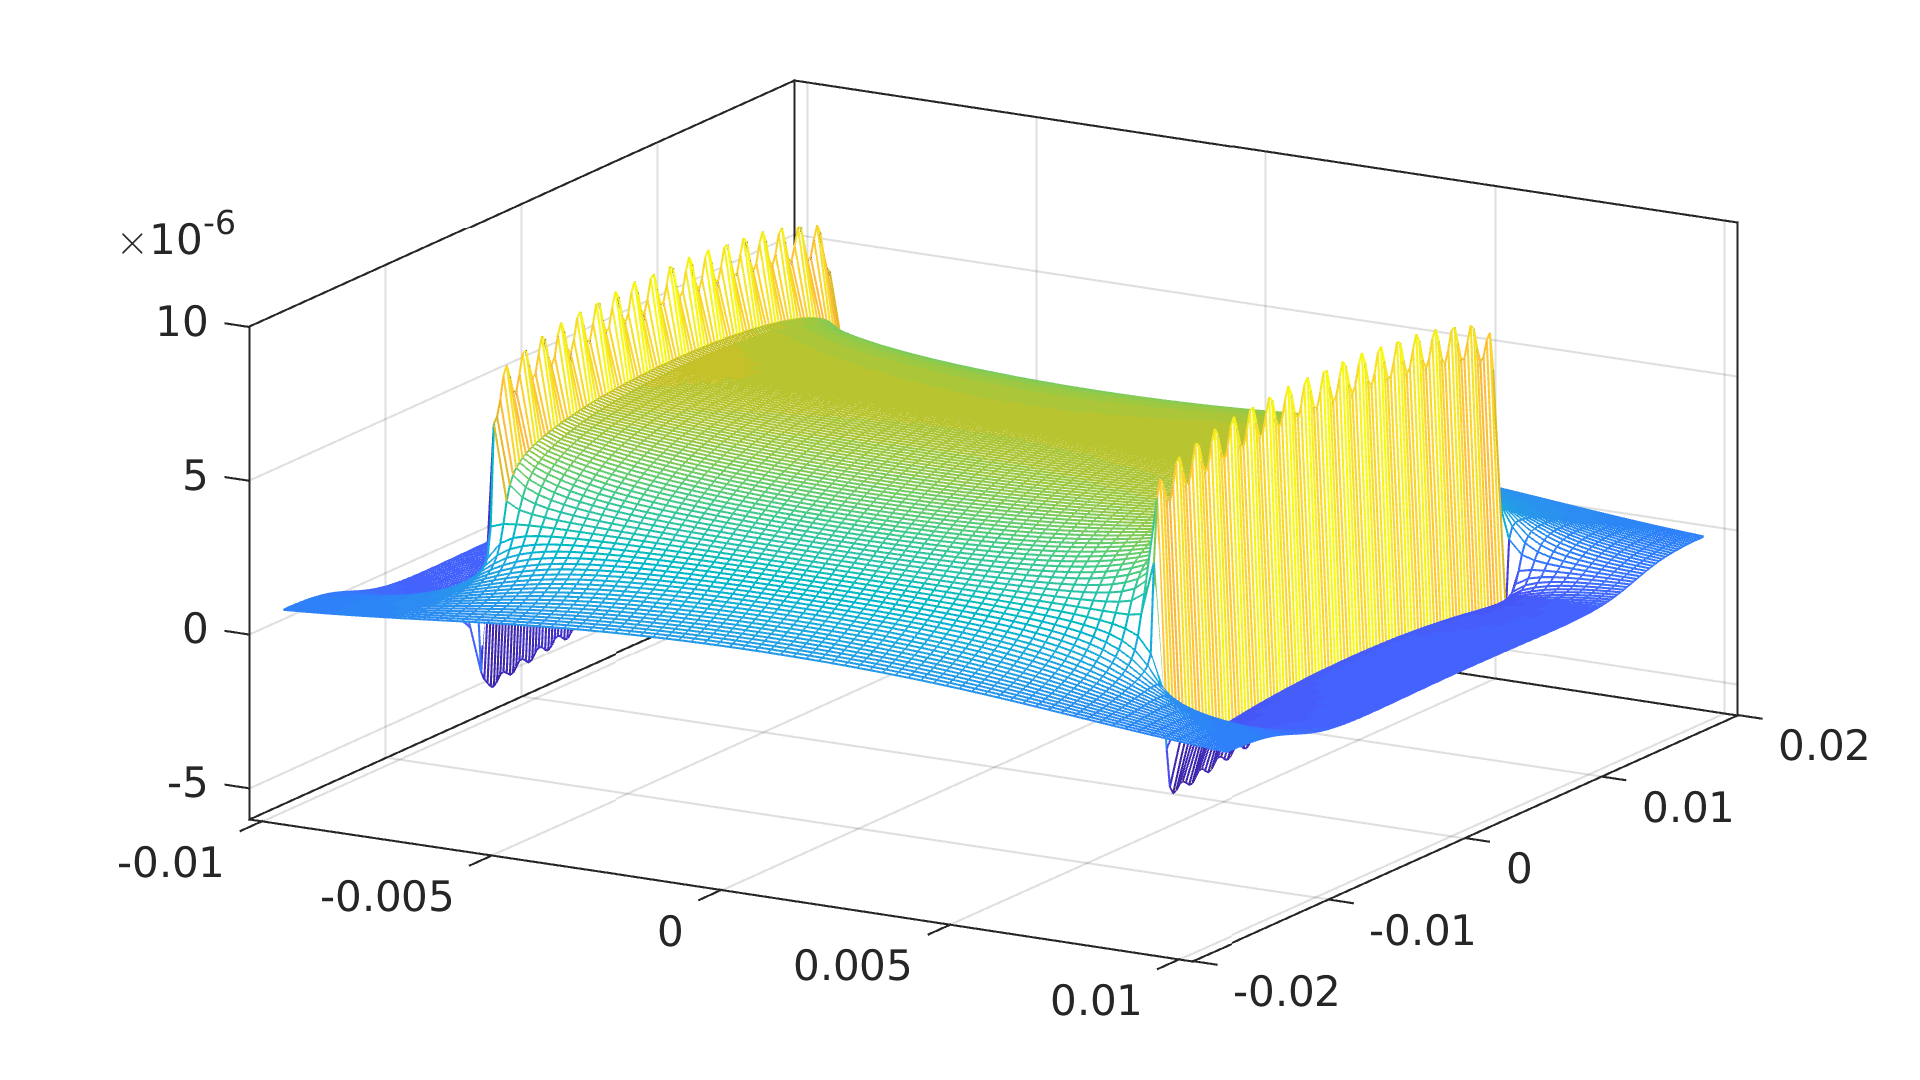
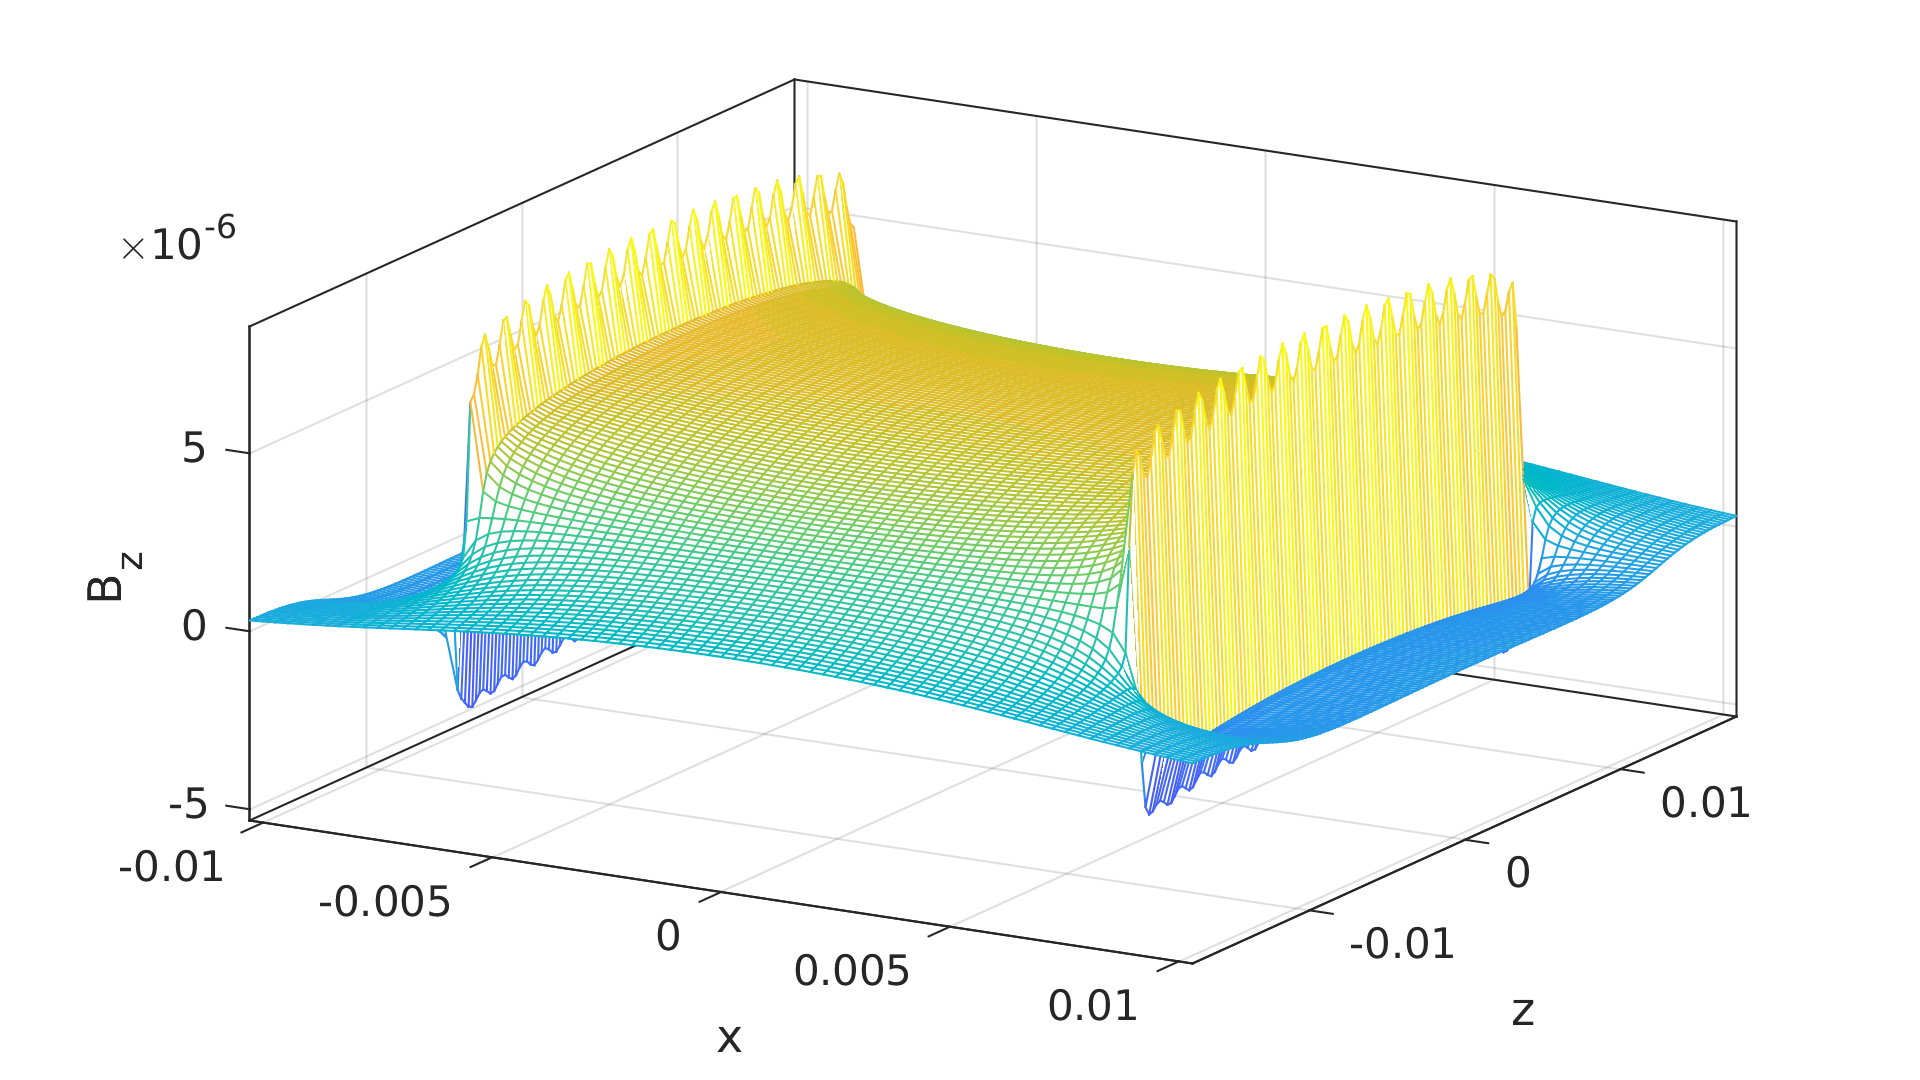
Plot the plane of test points horizontally

diff --git a/plotResults.m b/plotResults.m
@@ -10,15 +10,30 @@ Bx = importdata('Output/Bx.txt');
 By = importdata('Output/By.txt');
 Bz = importdata('Output/Bz.txt');
 
+% Mathematica uses "Indeterminate" where Matlab would use "NaN", so we replace
+% those:
+!sed -i 's/Indeterminate/NaN/g' Output/XZBzAnalytic.txt
+XZBzAnalytic = importdata('Output/XZBzAnalytic.txt');
+
+n = sqrt(size(XZBzAnalytic,1)/2);
+
+% X = reshape(XZBzAnalytic(:,1),2*n,n);
+% Z = reshape(XZBzAnalytic(:,2),2*n,n);
+BzAnalytic = reshape(XZBzAnalytic(:,3),2*n,n);
+
 whos
 
 setPlotSize(16,9,'centimeter')
 
 clf; hold on
-plot3(coilCoordinates(:,1),coilCoordinates(:,2),coilCoordinates(:,3))
+plot3(coilCoordinates(:,1),coilCoordinates(:,3),coilCoordinates(:,2))
+xlabel('x')
+ylabel('z')
+zlabel('y')
 xlim([min(min(X)) max(max(X))])
-ylim([min(min(X)) max(max(X))])
-zlim([min(coilCoordinates(:,3)) max(coilCoordinates(:,3))])
+ylim([min(min(Z)) max(max(Z))])
+% zlim([min(coilCoordinates(:,3)) max(coilCoordinates(:,3))])
+zlim([min(min(X)) max(max(X))])
 view(30,30)
 box on
 grid on
@@ -27,61 +42,101 @@ print(1,filename,'-dpng','-r300')
 % savefig(1,filename)
 % matlab2tikz([filename '.tikz'],'height','\figureheight','width','\figurewidth','showInfo',false);
 
-quiver3(X,Y,Z,Bx,By,Bz)
+quiver3(X,Z,Y,Bx,Bz,By)
+xlabel('x')
+ylabel('z')
+zlabel('y')
 xlim([min(min(X)) max(max(X))])
-ylim([min(min(X)) max(max(X))])
-zlim([min(coilCoordinates(:,3)) max(coilCoordinates(:,3))])
+ylim([min(min(Z)) max(max(Z))])
+% zlim([min(coilCoordinates(:,3)) max(coilCoordinates(:,3))])
+zlim([min(min(X)) max(max(X))])
 view(30,30)
 box on
 grid on
 filename = 'Output/theField';
 print(1,filename,'-dpng','-r300')
 
-% minimumField = min([min(min(Bx)) min(min(By)) min(min(Bz))]);
-% maximumField = max([max(max(Bx)) max(max(By)) max(max(Bz))]);
-minimumField = -6e-6;
-maximumField = 10e-6;
+minimumField = min([min(min(Bx)) min(min(By)) min(min(Bz)) min(min(BzAnalytic))]);
+maximumField = max([max(max(Bx)) max(max(By)) max(max(Bz)) max(max(BzAnalytic))]);
+% minimumField = -6e-6;
+% maximumField = 10e-6;
 
-clf
+clf; hold on
 mesh(X,Z,Bx)
+xlabel('x')
+ylabel('z')
+zlabel('B_x')
+% plot3(coilCoordinates(:,1),coilCoordinates(:,3),coilCoordinates(:,2))
+xlim([min(min(X)) max(max(X))])
+ylim([min(min(Z)) max(max(Z))])
 zlim([minimumField maximumField])
+caxis([minimumField maximumField])
 view(30,30)
 box on
+grid on
 filename = 'Output/Bx';
 print(1,filename,'-dpng','-r300')
 
-clf
+clf; hold on
 mesh(X,Z,By)
+xlabel('x')
+ylabel('z')
+zlabel('B_y')
+% plot3(coilCoordinates(:,1),coilCoordinates(:,3),coilCoordinates(:,2))
+xlim([min(min(X)) max(max(X))])
+ylim([min(min(Z)) max(max(Z))])
 zlim([minimumField maximumField])
+caxis([minimumField maximumField])
 view(30,30)
 box on
+grid on
 filename = 'Output/By';
 print(1,filename,'-dpng','-r300')
 
-clf
+clf; hold on
 mesh(X,Z,Bz)
+xlabel('x')
+ylabel('z')
+zlabel('B_z')
+% plot3(coilCoordinates(:,1),coilCoordinates(:,3),coilCoordinates(:,2))
+xlim([min(min(X)) max(max(X))])
+ylim([min(min(Z)) max(max(Z))])
 zlim([minimumField maximumField])
+caxis([minimumField maximumField])
 view(30,30)
 box on
+grid on
 filename = 'Output/Bz';
 print(1,filename,'-dpng','-r300')
 
-% clear
-
-XZBzAnalytic = importdata('Output/XZBzAnalytic.txt');
-
-n = sqrt(size(XZBzAnalytic,1)/2);
-
-X = reshape(XZBzAnalytic(:,1),2*n,n);
-Z = reshape(XZBzAnalytic(:,2),2*n,n);
-BzAnalytic = reshape(XZBzAnalytic(:,3),2*n,n);
-
-whos
-
-clf
+clf; hold on
 mesh(X,Z,BzAnalytic)
+xlabel('x')
+ylabel('z')
+zlabel('B_{z,Analytic}')
+% plot3(coilCoordinates(:,1),coilCoordinates(:,3),coilCoordinates(:,2))
+xlim([min(min(X)) max(max(X))])
+ylim([min(min(Z)) max(max(Z))])
 zlim([minimumField maximumField])
+caxis([minimumField maximumField])
 view(30,30)
 box on
+grid on
 filename = 'Output/BzAnalytic';
+print(1,filename,'-dpng','-r300')
+
+clf; hold on
+mesh(X,Z,Bz - BzAnalytic)
+xlabel('x')
+ylabel('z')
+zlabel('B_z - B_{z,Analytic}')
+% plot3(coilCoordinates(:,1),coilCoordinates(:,3),coilCoordinates(:,2))
+xlim([min(min(X)) max(max(X))])
+ylim([min(min(Z)) max(max(Z))])
+% zlim([minimumField maximumField])
+caxis([minimumField maximumField])
+view(30,30)
+box on
+grid on
+filename = 'Output/BzDifference';
 print(1,filename,'-dpng','-r300')
